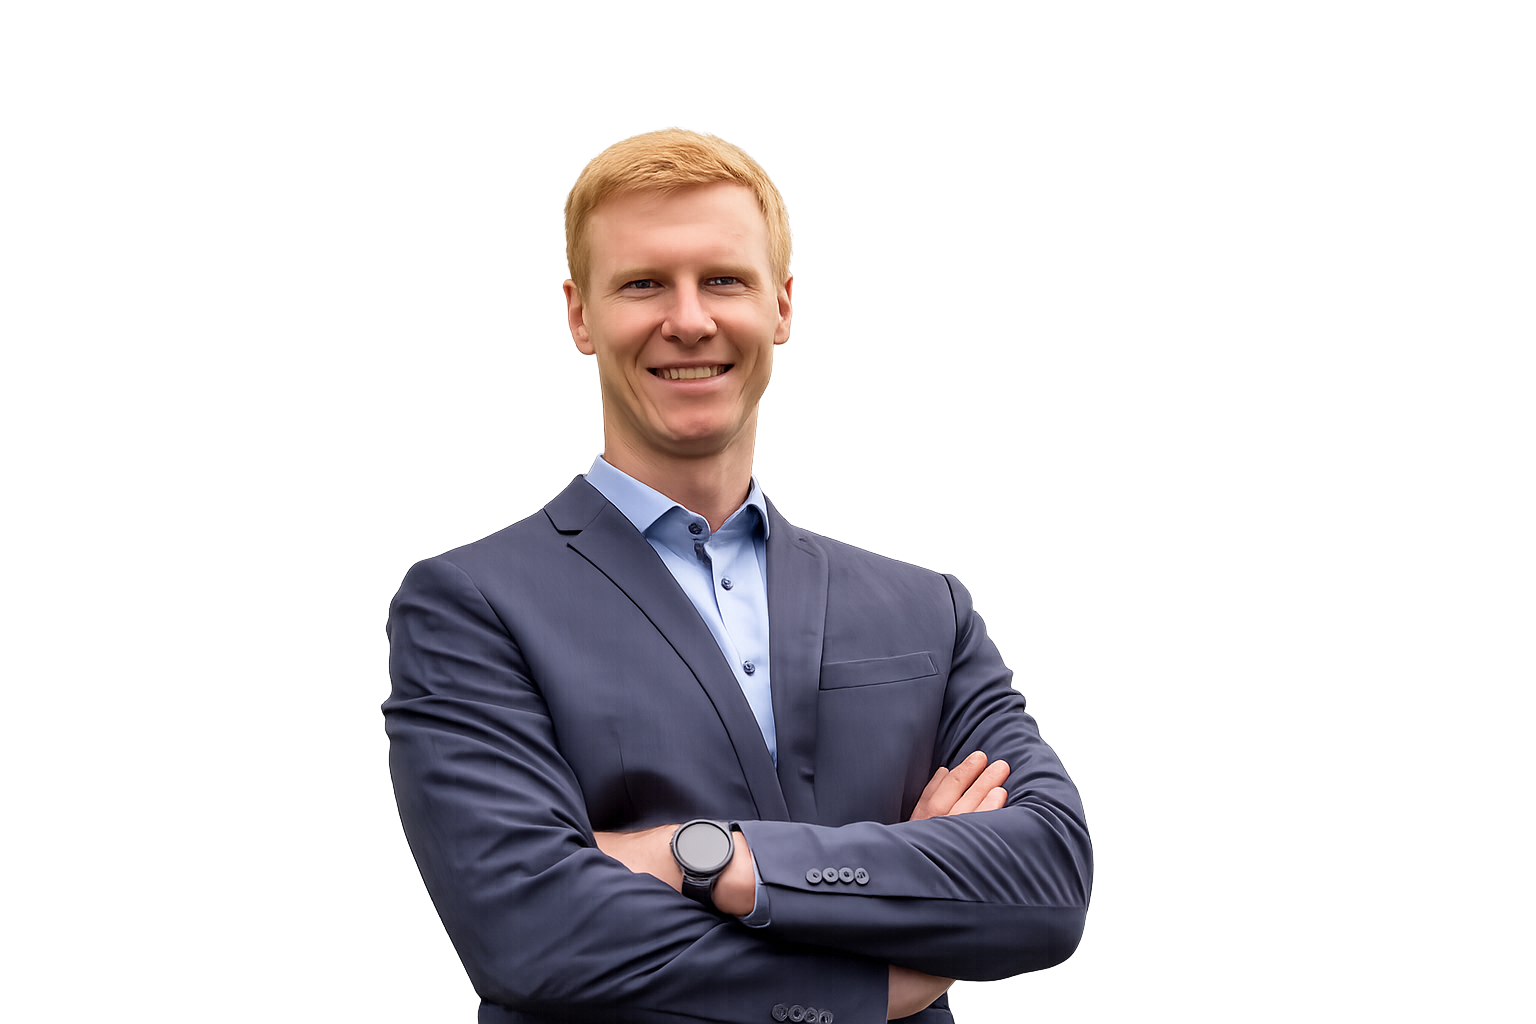
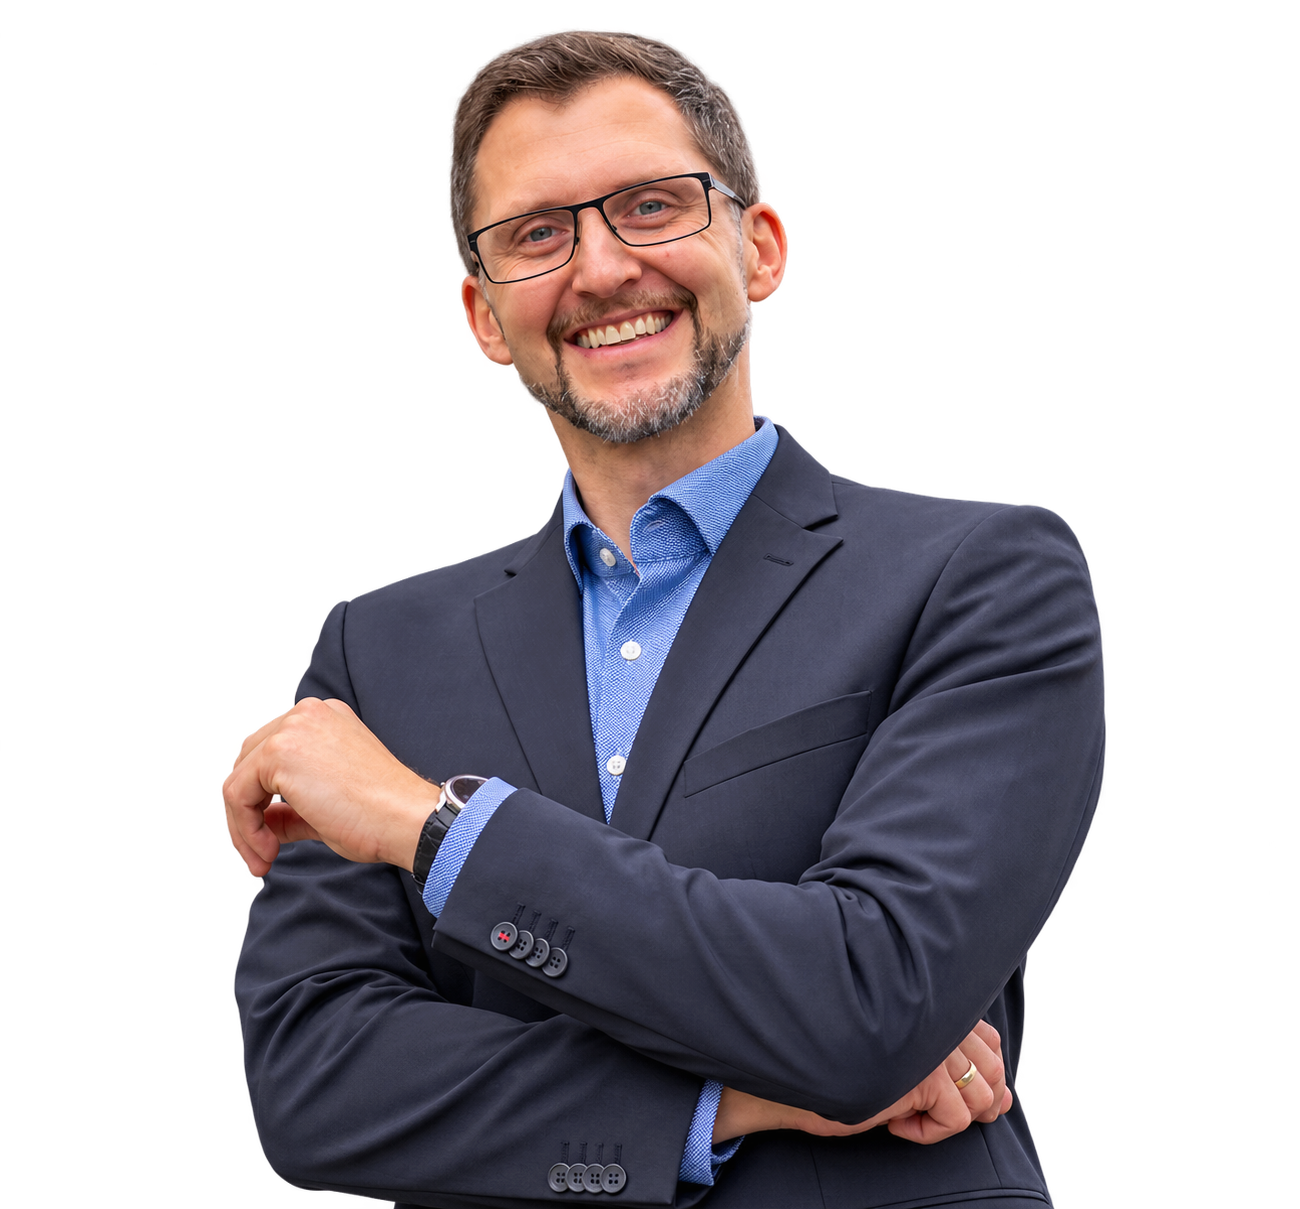
feat: update hero section image positioning and crop
Updated image positioning for better centering and cropped the portrait for symmetry.

diff --git a/components/hero-section.tsx b/components/hero-section.tsx
@@ -155,18 +155,19 @@ export function HeroSection({ visible }: HeroSectionProps) {
           transition: 'opacity 1.2s ease 0.5s',
         }}
       >
-        {/* The portrait PNG is freetstanding on white. We use absolute positioning
-            with a fixed pixel-width so it scales to fill the full column height.
-            A negative top value pulls Tobias' head above the hero's padding so it
-            aligns with the eyebrow text on the left. */}
+        {/* The portrait PNG is a near-square studio photo with the subject centered
+            and cropped tight (little headroom above the hair, cropped at the wrists).
+            Because it's narrower relative to height than the column, object-cover
+            fills the full column height and crops the sides symmetrically —
+            centering horizontally keeps the subject framed the same as before. */}
         <Image
           src={siteConfig.images.hero}
           alt={`${siteConfig.person.fullName} – ${siteConfig.person.role} aus ${siteConfig.address.city}`}
           fill
           priority
-          className="object-cover object-[60%_0%]"
+          className="object-cover"
           sizes="50vw"
-          style={{ objectPosition: '60% -5%' }}
+          style={{ objectPosition: '50% 50%' }}
         />
         {/* Fade bottom edge into section background */}
         <div
